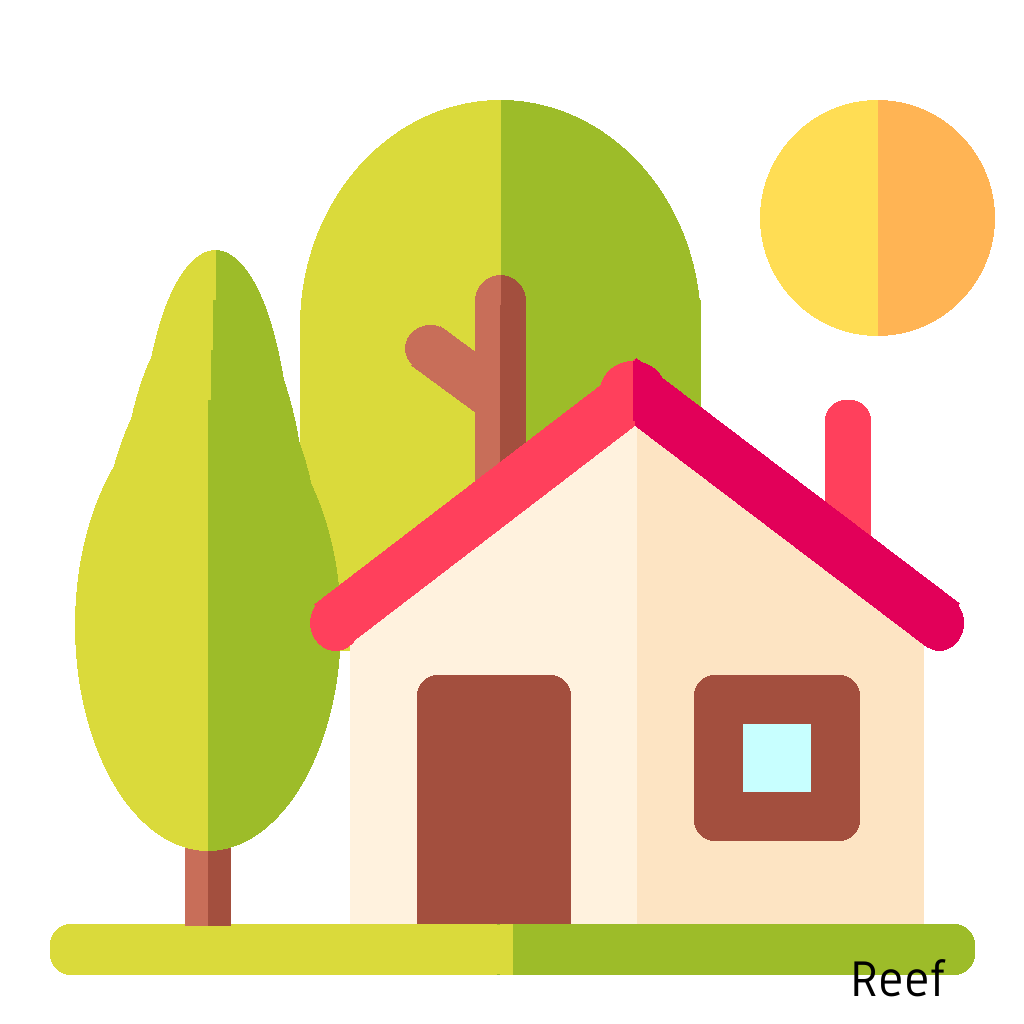
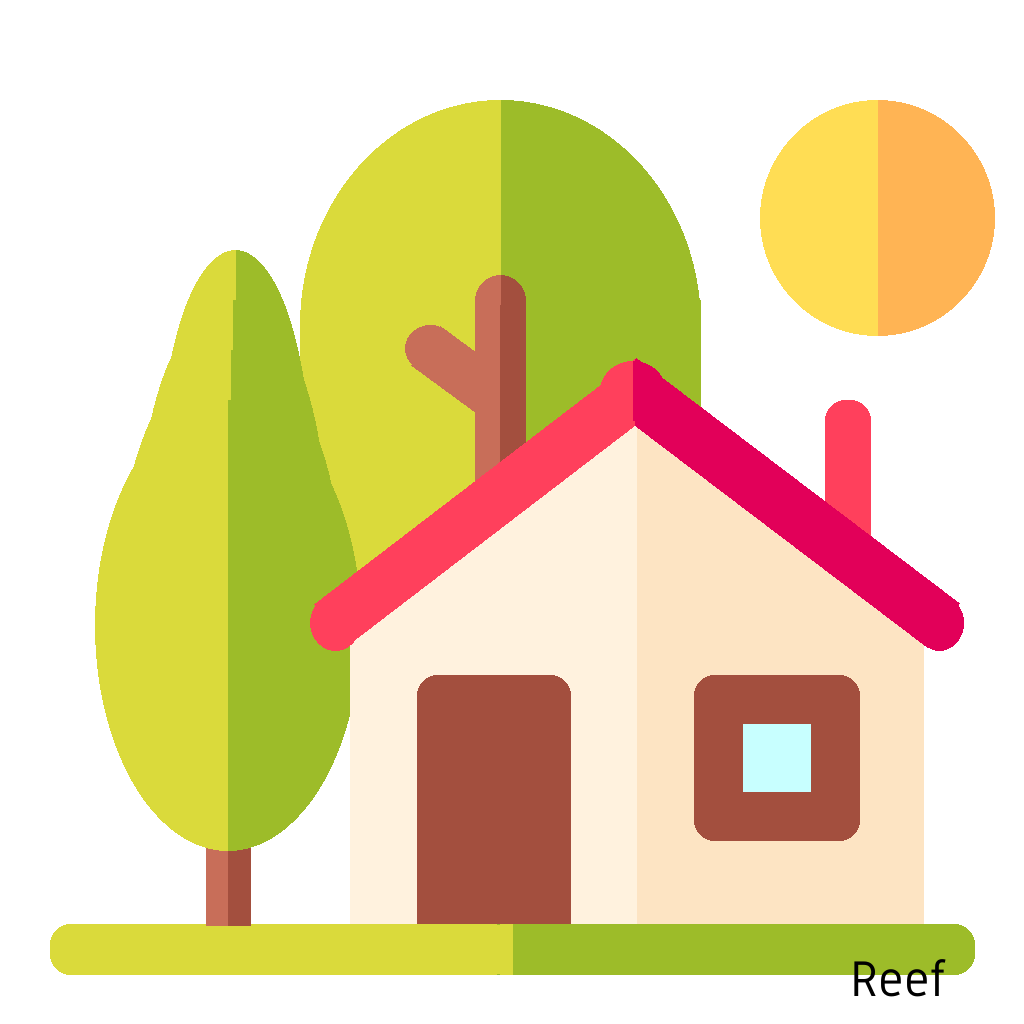
fixed left tree

Changed region(s): [[0.0625, 0.2188, 0.3438, 0.9062]]

diff --git a/main.py b/main.py
@@ -40,20 +40,20 @@ draw.rectangle(xy=(475, 305, 525, 750), fill=Brown2)
 draw.rectangle(xy=(500, 305, 525, 750), fill=Brown)
 
 #Tree - Left
-draw.rectangle(xy=(186, 600, 230, 925), fill=Brown)
-draw.rectangle(xy=(185, 600, 207, 925), fill=Brown2)
+draw.rectangle(xy=(206, 600, 250, 925), fill=Brown)
+draw.rectangle(xy=(206, 600, 227, 925), fill=Brown2)
 
-draw.ellipse(xy=(140, 250, 290, 700), fill=Green2)
-draw.pieslice((140, 250, 290, 700), start=90, end=270, fill=Green1)
+draw.ellipse(xy=(160, 250, 310, 700), fill=Green2)
+draw.pieslice((160, 250, 310, 700), start=90, end=270, fill=Green1)
 
-draw.ellipse(xy=(120, 300, 305, 750), fill=Green2)
-draw.pieslice((120, 300, 305, 750), start=90, end=270, fill=Green1)
+draw.ellipse(xy=(140, 300, 325, 750), fill=Green2)
+draw.pieslice((140, 300, 325, 750), start=90, end=270, fill=Green1)
 
-draw.ellipse(xy=(100, 350, 320, 800), fill=Green2)
-draw.pieslice((100, 350, 320, 800), start=90, end=270, fill=Green1)
+draw.ellipse(xy=(120, 350, 340, 800), fill=Green2)
+draw.pieslice((120, 350, 340, 800), start=90, end=270, fill=Green1)
 
-draw.ellipse(xy=(75, 400, 340, 850), fill=Green2)
-draw.pieslice((75, 400, 340, 850), start=90, end=270, fill=Green1)
+draw.ellipse(xy=(95, 400, 360, 850), fill=Green2)
+draw.pieslice((95, 400, 360, 850), start=90, end=270, fill=Green1)
 
 #House
 draw.rectangle(xy=(350, 625, 923, 923), fill=White1)
